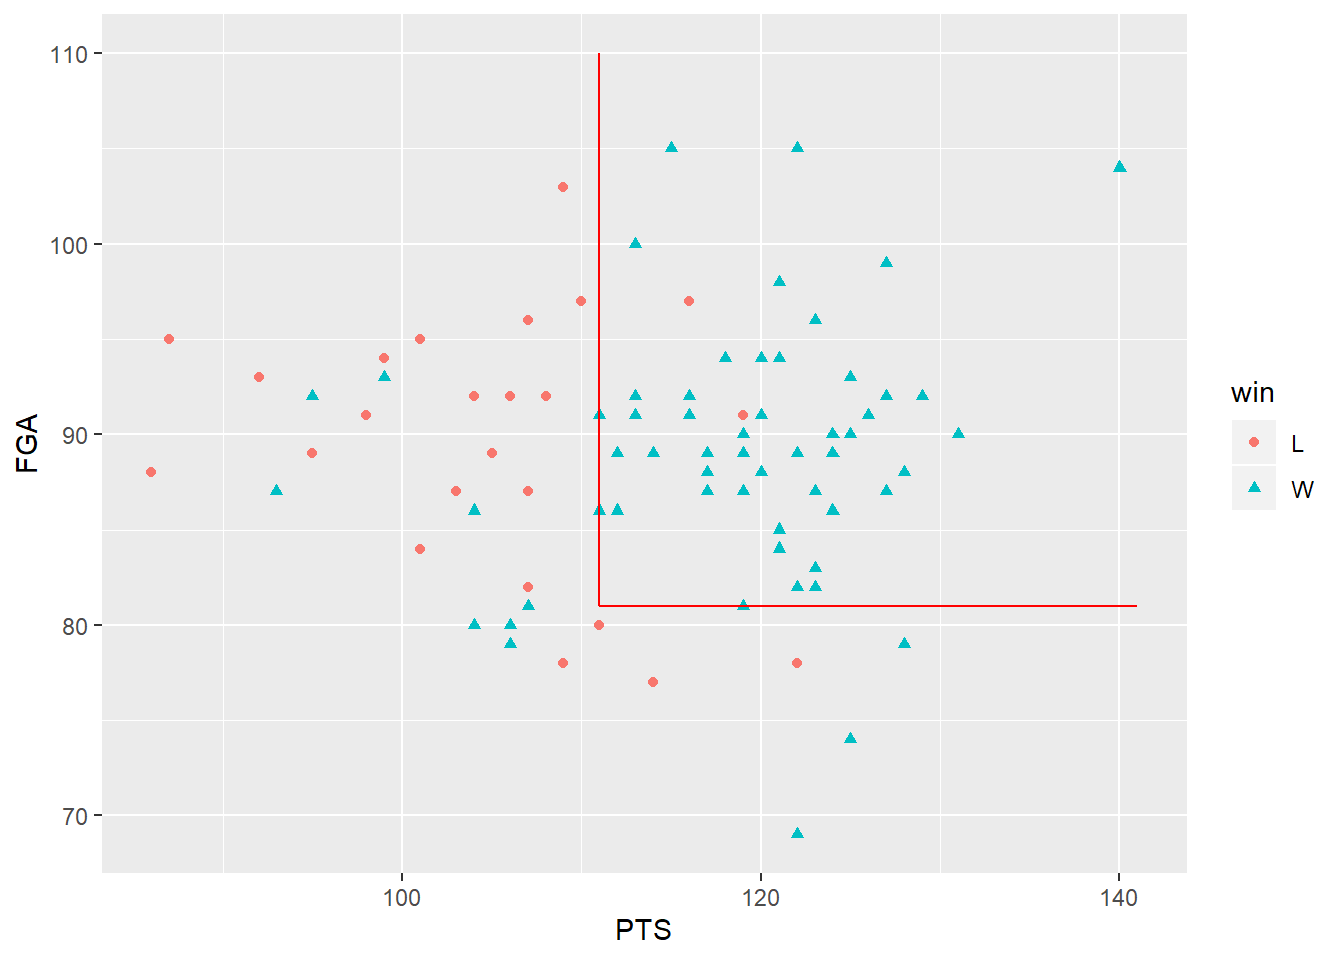
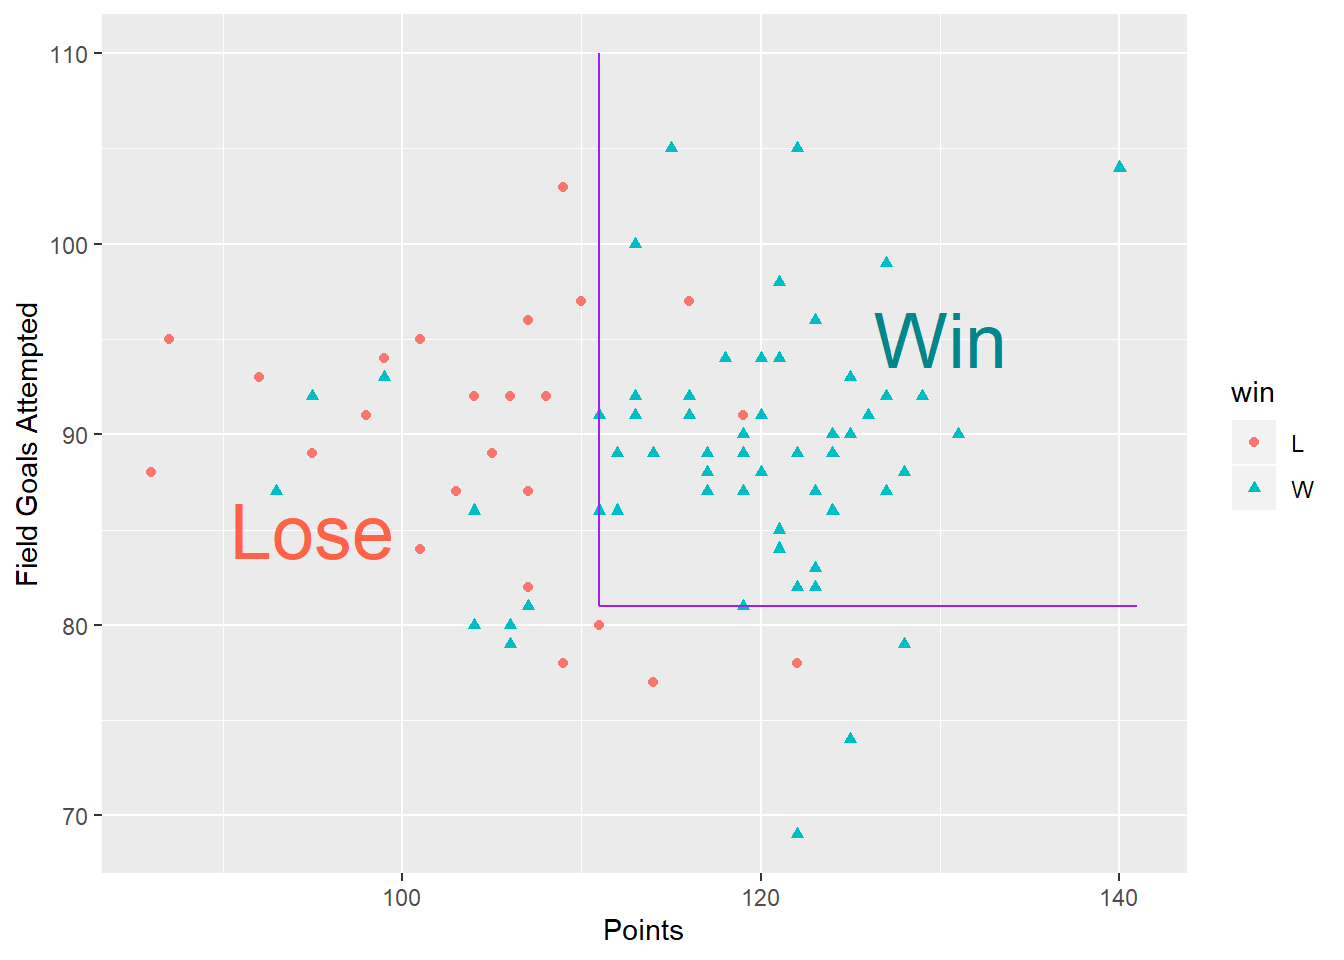
update

diff --git a/public/zh/survival/index.html b/public/zh/survival/index.html
@@ -369,7 +369,23 @@ node), split, n, deviance, yval
 Figure 5: CART树剪枝前
 </p>
 </div>
-<pre class="r"><code>print(fit)</code></pre>
+<pre class="r"><code>fit2 &lt;- prune(fit, cp = 0.017)
+fit2$cptable</code></pre>
+<pre><code>          CP nsplit rel error    xerror       xstd
+1 0.12945955      0 1.0000000 1.0045566 0.07019126
+2 0.04205598      1 0.8705405 0.8874852 0.07377709
+3 0.02919986      2 0.8284845 0.8881050 0.07749942
+4 0.01798864      3 0.7992846 0.9101703 0.07852036
+5 0.01700000      4 0.7812960 0.9340807 0.08349374</code></pre>
+<pre class="r"><code>rpart.plot(fit2,shadow.col = &#39;gray&#39;,branch = 0.4)</code></pre>
+<div class="figure" style="text-align: center"><span id="fig:unnamed-chunk-12"></span>
+<img src="../../post/survival_files/figure-html/unnamed-chunk-12-1.png" alt="CART树剪枝后" width="100%" />
+<p class="caption">
+Figure 6: CART树剪枝后
+</p>
+</div>
+<pre class="r"><code>temp &lt;- snip.rpart(fit2,6)
+fit2</code></pre>
 <pre><code>n= 146 
 
 node), split, n, deviance, yval
@@ -378,32 +394,30 @@ node), split, n, deviance, yval
  1) root 146 192.111100 1.0000000  
    2) grade&lt; 2.5 61  44.799010 0.3634439  
      4) g2&lt; 11.36 33   9.117405 0.1229835 *
-     5) g2&gt;=11.36 28  27.602190 0.7345610  
-      10) gleason&lt; 5.5 20  14.297110 0.5304115 *
-      11) gleason&gt;=5.5 8  11.094650 1.3069940 *
+     5) g2&gt;=11.36 28  27.602190 0.7345610 *
    3) grade&gt;=2.5 85 122.441500 1.6148600  
      6) age&gt;=56.5 75 103.062900 1.4255040  
-      12) gleason&lt; 7.5 50  66.119800 1.1407320  
-        24) g2&lt; 13.475 24  27.197170 0.8007306 *
-        25) g2&gt;=13.475 26  36.790960 1.4570210  
-          50) g2&gt;=17.915 15  20.332740 0.9789825 *
-          51) g2&lt; 17.915 11  13.459010 2.1714480 *
-      13) gleason&gt;=7.5 25  33.487250 2.0307290  
-        26) g2&gt;=15.29 10  11.588480 1.2156230 *
-        27) g2&lt; 15.29 15  18.939150 2.7053610 *
+      12) gleason&lt; 7.5 50  66.119800 1.1407320 *
+      13) gleason&gt;=7.5 25  33.487250 2.0307290 *
      7) age&lt; 56.5 10  13.769010 3.1822320 *</code></pre>
-<pre class="r"><code>fit2 &lt;- prune(fit, cp = 0.016)
-rpart.plot(fit2,shadow.col = &#39;gray&#39;,branch = 0.4)</code></pre>
-<div class="figure" style="text-align: center"><span id="fig:unnamed-chunk-12"></span>
-<img src="../../post/survival_files/figure-html/unnamed-chunk-12-1.png" alt="CART树剪枝后" width="100%" />
+<pre class="r"><code>km &lt;- survfit(Surv(pgtime, pgstat) ~ temp$where, stagec)
+autoplot(km)</code></pre>
+<div class="figure" style="text-align: center"><span id="fig:unnamed-chunk-13"></span>
+<img src="../../post/survival_files/figure-html/unnamed-chunk-13-1.png" alt="每个结点患者的生存风险估计" width="100%" />
 <p class="caption">
-Figure 6: CART树剪枝后
+Figure 7: 每个结点患者的生存风险估计
 </p>
 </div>
-<pre class="r"><code>temp &lt;- snip.rpart(fit2, 6)
-km &lt;- survfit(Surv(pgtime, pgstat) ~ temp$where, stagec)
-autoplot(km)</code></pre>
-<p><img src="../../post/survival_files/figure-html/unnamed-chunk-13-1.png" width="100%" style="display: block; margin: auto;" /></p>
+<pre class="r"><code>ggplot(stagec)+
+  geom_point(aes(age,g2,shape=factor(pgstat),
+                 col=factor(pgstat)))+
+  facet_wrap(~grade)</code></pre>
+<div class="figure" style="text-align: center"><span id="fig:unnamed-chunk-14"></span>
+<img src="../../post/survival_files/figure-html/unnamed-chunk-14-1.png" alt="年龄、G2阶段的瘤细胞比例、肿瘤等级grade的关系" width="100%" />
+<p class="caption">
+Figure 8: 年龄、G2阶段的瘤细胞比例、肿瘤等级grade的关系
+</p>
+</div>
 </div>
 </div>
 

diff --git a/content/post/survival.html b/content/post/survival.html
@@ -299,7 +299,23 @@ node), split, n, deviance, yval
 Figure 5: CART树剪枝前
 </p>
 </div>
-<pre class="r"><code>print(fit)</code></pre>
+<pre class="r"><code>fit2 &lt;- prune(fit, cp = 0.017)
+fit2$cptable</code></pre>
+<pre><code>          CP nsplit rel error    xerror       xstd
+1 0.12945955      0 1.0000000 1.0045566 0.07019126
+2 0.04205598      1 0.8705405 0.8874852 0.07377709
+3 0.02919986      2 0.8284845 0.8881050 0.07749942
+4 0.01798864      3 0.7992846 0.9101703 0.07852036
+5 0.01700000      4 0.7812960 0.9340807 0.08349374</code></pre>
+<pre class="r"><code>rpart.plot(fit2,shadow.col = &#39;gray&#39;,branch = 0.4)</code></pre>
+<div class="figure" style="text-align: center"><span id="fig:unnamed-chunk-12"></span>
+<img src="/post/survival_files/figure-html/unnamed-chunk-12-1.png" alt="CART树剪枝后" width="100%" />
+<p class="caption">
+Figure 6: CART树剪枝后
+</p>
+</div>
+<pre class="r"><code>temp &lt;- snip.rpart(fit2,6)
+fit2</code></pre>
 <pre><code>n= 146 
 
 node), split, n, deviance, yval
@@ -308,31 +324,29 @@ node), split, n, deviance, yval
  1) root 146 192.111100 1.0000000  
    2) grade&lt; 2.5 61  44.799010 0.3634439  
      4) g2&lt; 11.36 33   9.117405 0.1229835 *
-     5) g2&gt;=11.36 28  27.602190 0.7345610  
-      10) gleason&lt; 5.5 20  14.297110 0.5304115 *
-      11) gleason&gt;=5.5 8  11.094650 1.3069940 *
+     5) g2&gt;=11.36 28  27.602190 0.7345610 *
    3) grade&gt;=2.5 85 122.441500 1.6148600  
      6) age&gt;=56.5 75 103.062900 1.4255040  
-      12) gleason&lt; 7.5 50  66.119800 1.1407320  
-        24) g2&lt; 13.475 24  27.197170 0.8007306 *
-        25) g2&gt;=13.475 26  36.790960 1.4570210  
-          50) g2&gt;=17.915 15  20.332740 0.9789825 *
-          51) g2&lt; 17.915 11  13.459010 2.1714480 *
-      13) gleason&gt;=7.5 25  33.487250 2.0307290  
-        26) g2&gt;=15.29 10  11.588480 1.2156230 *
-        27) g2&lt; 15.29 15  18.939150 2.7053610 *
+      12) gleason&lt; 7.5 50  66.119800 1.1407320 *
+      13) gleason&gt;=7.5 25  33.487250 2.0307290 *
      7) age&lt; 56.5 10  13.769010 3.1822320 *</code></pre>
-<pre class="r"><code>fit2 &lt;- prune(fit, cp = 0.016)
-rpart.plot(fit2,shadow.col = &#39;gray&#39;,branch = 0.4)</code></pre>
-<div class="figure" style="text-align: center"><span id="fig:unnamed-chunk-12"></span>
-<img src="/post/survival_files/figure-html/unnamed-chunk-12-1.png" alt="CART树剪枝后" width="100%" />
+<pre class="r"><code>km &lt;- survfit(Surv(pgtime, pgstat) ~ temp$where, stagec)
+autoplot(km)</code></pre>
+<div class="figure" style="text-align: center"><span id="fig:unnamed-chunk-13"></span>
+<img src="/post/survival_files/figure-html/unnamed-chunk-13-1.png" alt="每个结点患者的生存风险估计" width="100%" />
 <p class="caption">
-Figure 6: CART树剪枝后
+Figure 7: 每个结点患者的生存风险估计
 </p>
 </div>
-<pre class="r"><code>temp &lt;- snip.rpart(fit2, 6)
-km &lt;- survfit(Surv(pgtime, pgstat) ~ temp$where, stagec)
-autoplot(km)</code></pre>
-<p><img src="/post/survival_files/figure-html/unnamed-chunk-13-1.png" width="100%" style="display: block; margin: auto;" /></p>
+<pre class="r"><code>ggplot(stagec)+
+  geom_point(aes(age,g2,shape=factor(pgstat),
+                 col=factor(pgstat)))+
+  facet_wrap(~grade)</code></pre>
+<div class="figure" style="text-align: center"><span id="fig:unnamed-chunk-14"></span>
+<img src="/post/survival_files/figure-html/unnamed-chunk-14-1.png" alt="年龄、G2阶段的瘤细胞比例、肿瘤等级grade的关系" width="100%" />
+<p class="caption">
+Figure 8: 年龄、G2阶段的瘤细胞比例、肿瘤等级grade的关系
+</p>
+</div>
 </div>
 </div>

diff --git a/content/post/raptors.en.html b/content/post/raptors.en.html
@@ -12,7 +12,7 @@ slug: raptors
 
 
 <p><img src="https://img.shields.io/badge/License-CC%20BY--NC--ND%204.0-brightgreen.svg" /></p>
-<p>Toronto Raptors won the 2018-2019 NBA Championship, which is really exciting. I watched the playoffs even months after the season was over. As a data analyst, I find <a href="https://stats.nba.com/">datas</a> of Raptors and did this analysis. Since tree methods could apperantly display the relations between the feature variables and the response variable.</p>
+<p>Toronto Raptors won the 2018-2019 NBA Championship, which is really exciting. I watched the playoffs even months after the season was over. As a data analyst, I find <a href="https://stats.nba.com/">datas</a> of Raptors and did this analysis. Since tree methods could apperantly display the relations between the feature variables and the response variable, it is appropriate to use them to reveal the factors of wining.</p>
 <div class="figure" style="text-align: center"><span id="fig:unnamed-chunk-2"></span>
 <img src="/img/vignette/raptors.jpg" alt="Kawhi Leonard versus KD, who was injured during G5" width="100%" />
 <p class="caption">
@@ -88,10 +88,13 @@ Figure 3: When raptors score more than 111 and the field goals attempted more th
                  shape=win,col=win)) +
   geom_segment(aes(111,81,
                    xend = 111,yend = 110),
-               col=&#39;red&#39;) +
+               col=&#39;purple&#39;) +
   geom_segment(aes(111,81,
                    xend = 141,yend = 81),
-               col=&#39;red&#39;)</code></pre>
+               col=&#39;purple&#39;)+
+  annotate(&#39;text&#39;, x =130,y=95, label=&#39;Win&#39;, size=10,color=&#39;turquoise4&#39;) +
+  annotate(&#39;text&#39;, x =95,y=85, label=&#39;Lose&#39;, size=10,color=&#39;tomato&#39;) +
+  labs(x=&#39;Points&#39;,y=&#39;Field Goals Attempted&#39;)</code></pre>
 <div class="figure" style="text-align: center"><span id="fig:unnamed-chunk-9"></span>
 <img src="/post/raptors.en_files/figure-html/unnamed-chunk-9-1.png" alt="Partition borders of the CART tree." width="100%" />
 <p class="caption">

diff --git a/public/en/raptors/index.html b/public/en/raptors/index.html
@@ -77,7 +77,7 @@
 
 
 <p><img src="https://img.shields.io/badge/License-CC%20BY--NC--ND%204.0-brightgreen.svg" /></p>
-<p>Toronto Raptors won the 2018-2019 NBA Championship, which is really exciting. I watched the playoffs even months after the season was over. As a data analyst, I find <a href="https://stats.nba.com/">datas</a> of Raptors and did this analysis. Since tree methods could apperantly display the relations between the feature variables and the response variable.</p>
+<p>Toronto Raptors won the 2018-2019 NBA Championship, which is really exciting. I watched the playoffs even months after the season was over. As a data analyst, I find <a href="https://stats.nba.com/">datas</a> of Raptors and did this analysis. Since tree methods could apperantly display the relations between the feature variables and the response variable, it is appropriate to use them to reveal the factors of wining.</p>
 <div class="figure" style="text-align: center"><span id="fig:unnamed-chunk-2"></span>
 <img src="../../img/vignette/raptors.jpg" alt="Kawhi Leonard versus KD, who was injured during G5" width="100%" />
 <p class="caption">
@@ -153,10 +153,13 @@ Figure 3: When raptors score more than 111 and the field goals attempted more th
                  shape=win,col=win)) +
   geom_segment(aes(111,81,
                    xend = 111,yend = 110),
-               col=&#39;red&#39;) +
+               col=&#39;purple&#39;) +
   geom_segment(aes(111,81,
                    xend = 141,yend = 81),
-               col=&#39;red&#39;)</code></pre>
+               col=&#39;purple&#39;)+
+  annotate(&#39;text&#39;, x =130,y=95, label=&#39;Win&#39;, size=10,color=&#39;turquoise4&#39;) +
+  annotate(&#39;text&#39;, x =95,y=85, label=&#39;Lose&#39;, size=10,color=&#39;tomato&#39;) +
+  labs(x=&#39;Points&#39;,y=&#39;Field Goals Attempted&#39;)</code></pre>
 <div class="figure" style="text-align: center"><span id="fig:unnamed-chunk-9"></span>
 <img src="../../post/raptors.en_files/figure-html/unnamed-chunk-9-1.png" alt="Partition borders of the CART tree." width="100%" />
 <p class="caption">
